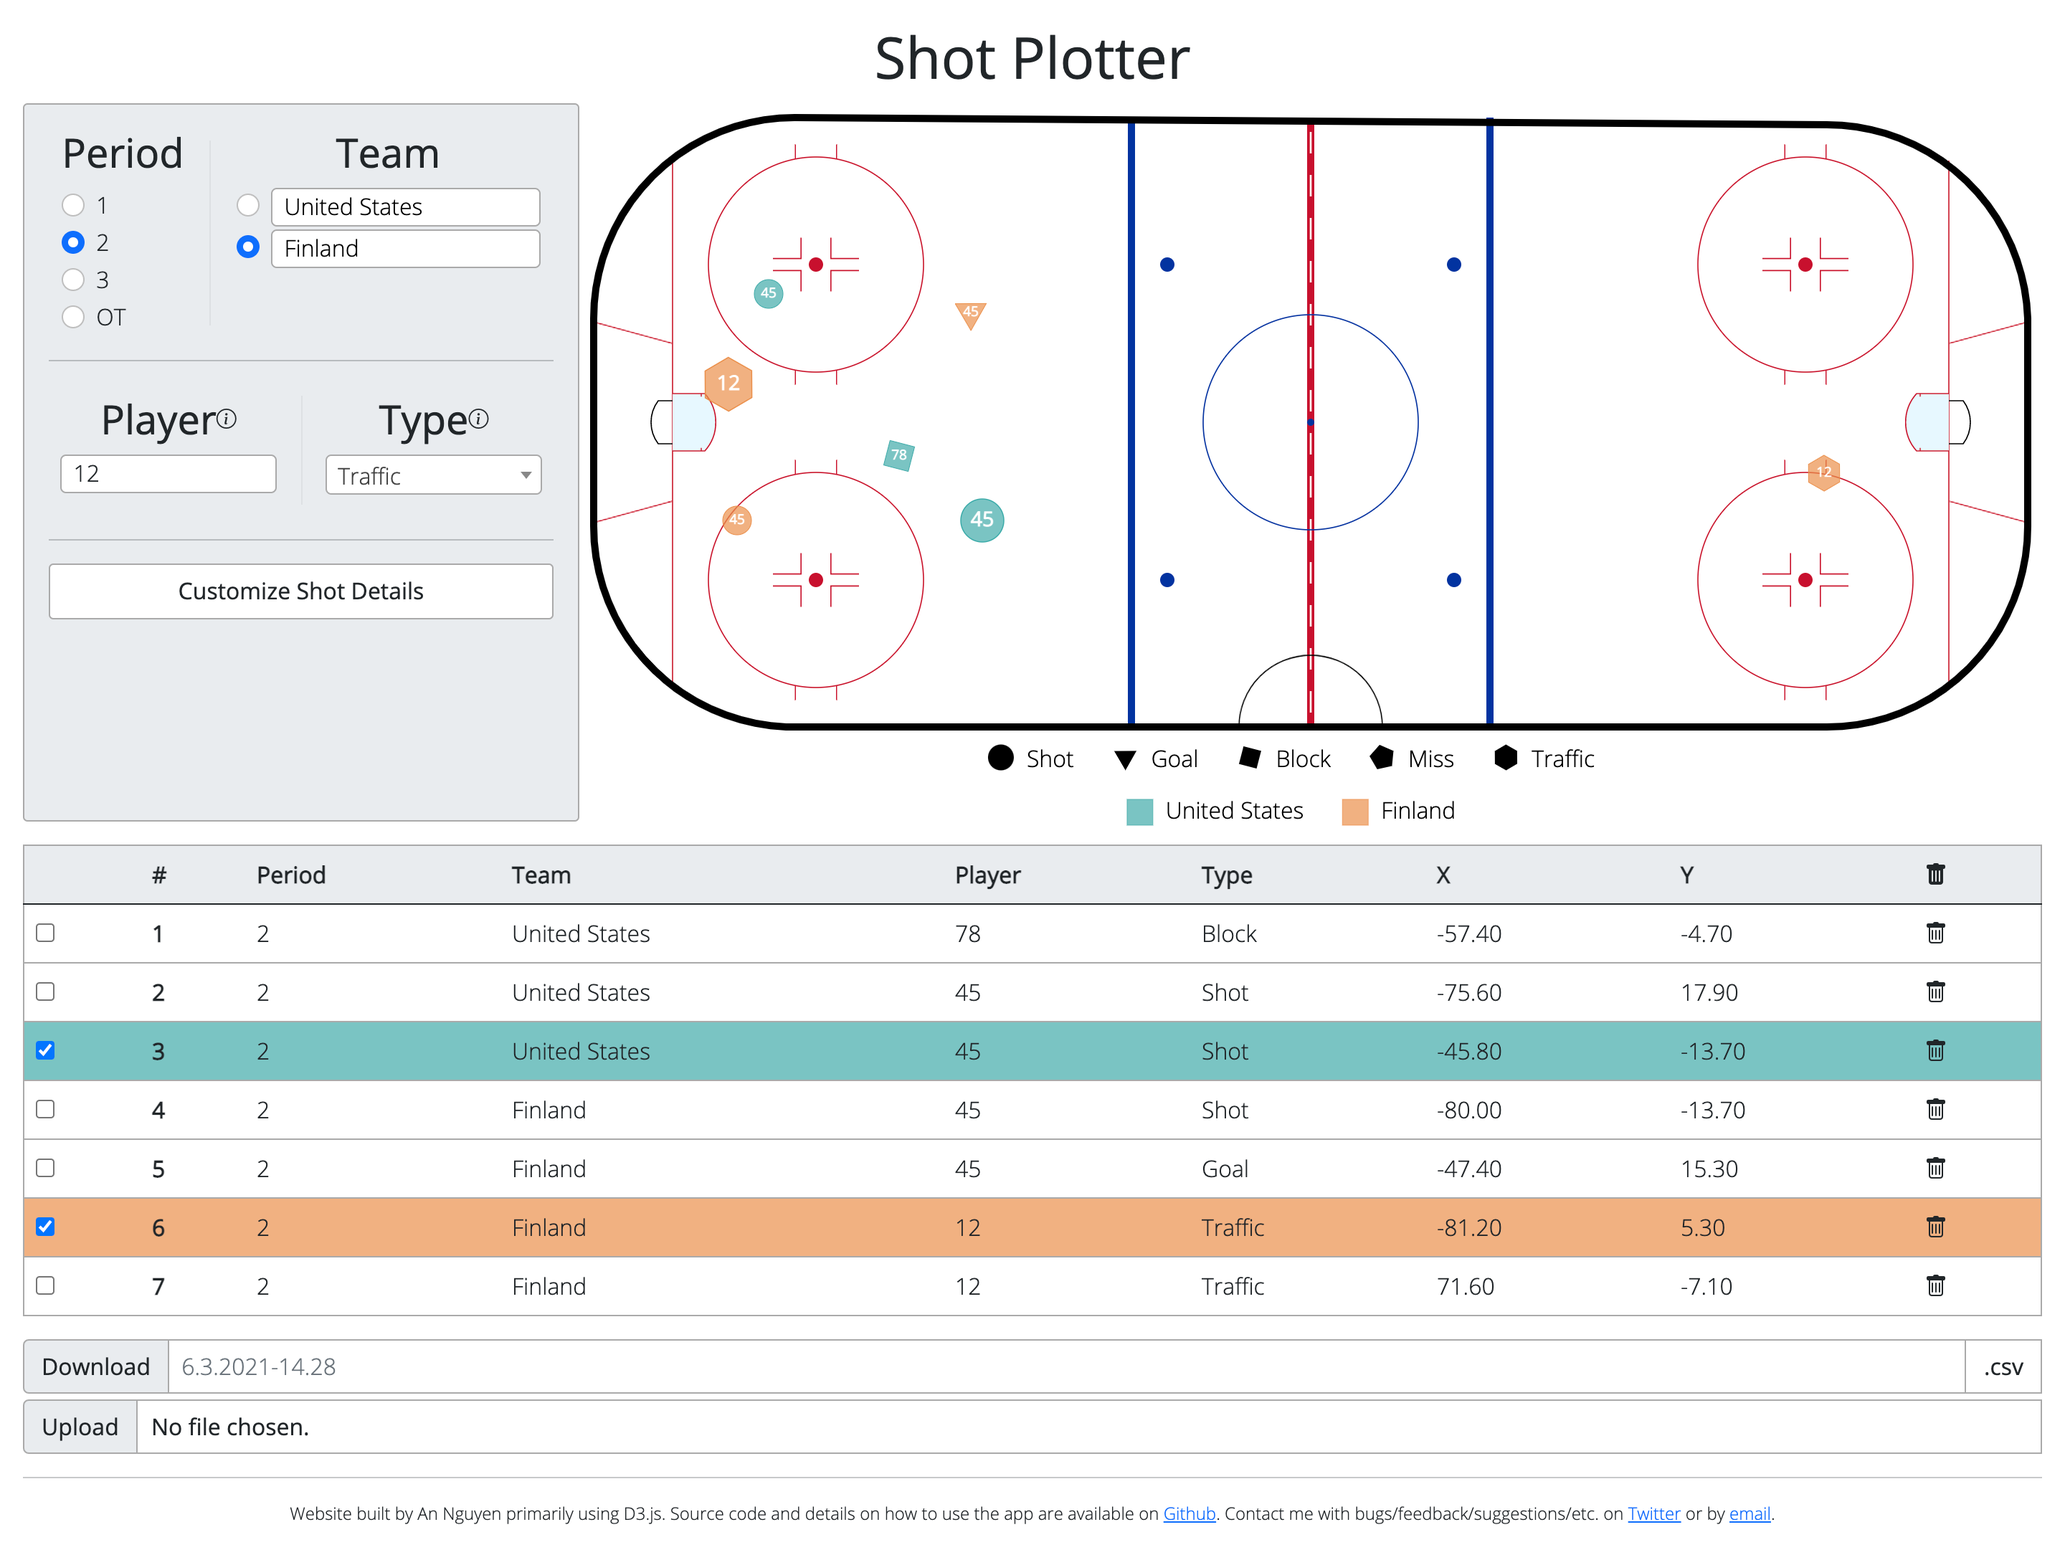
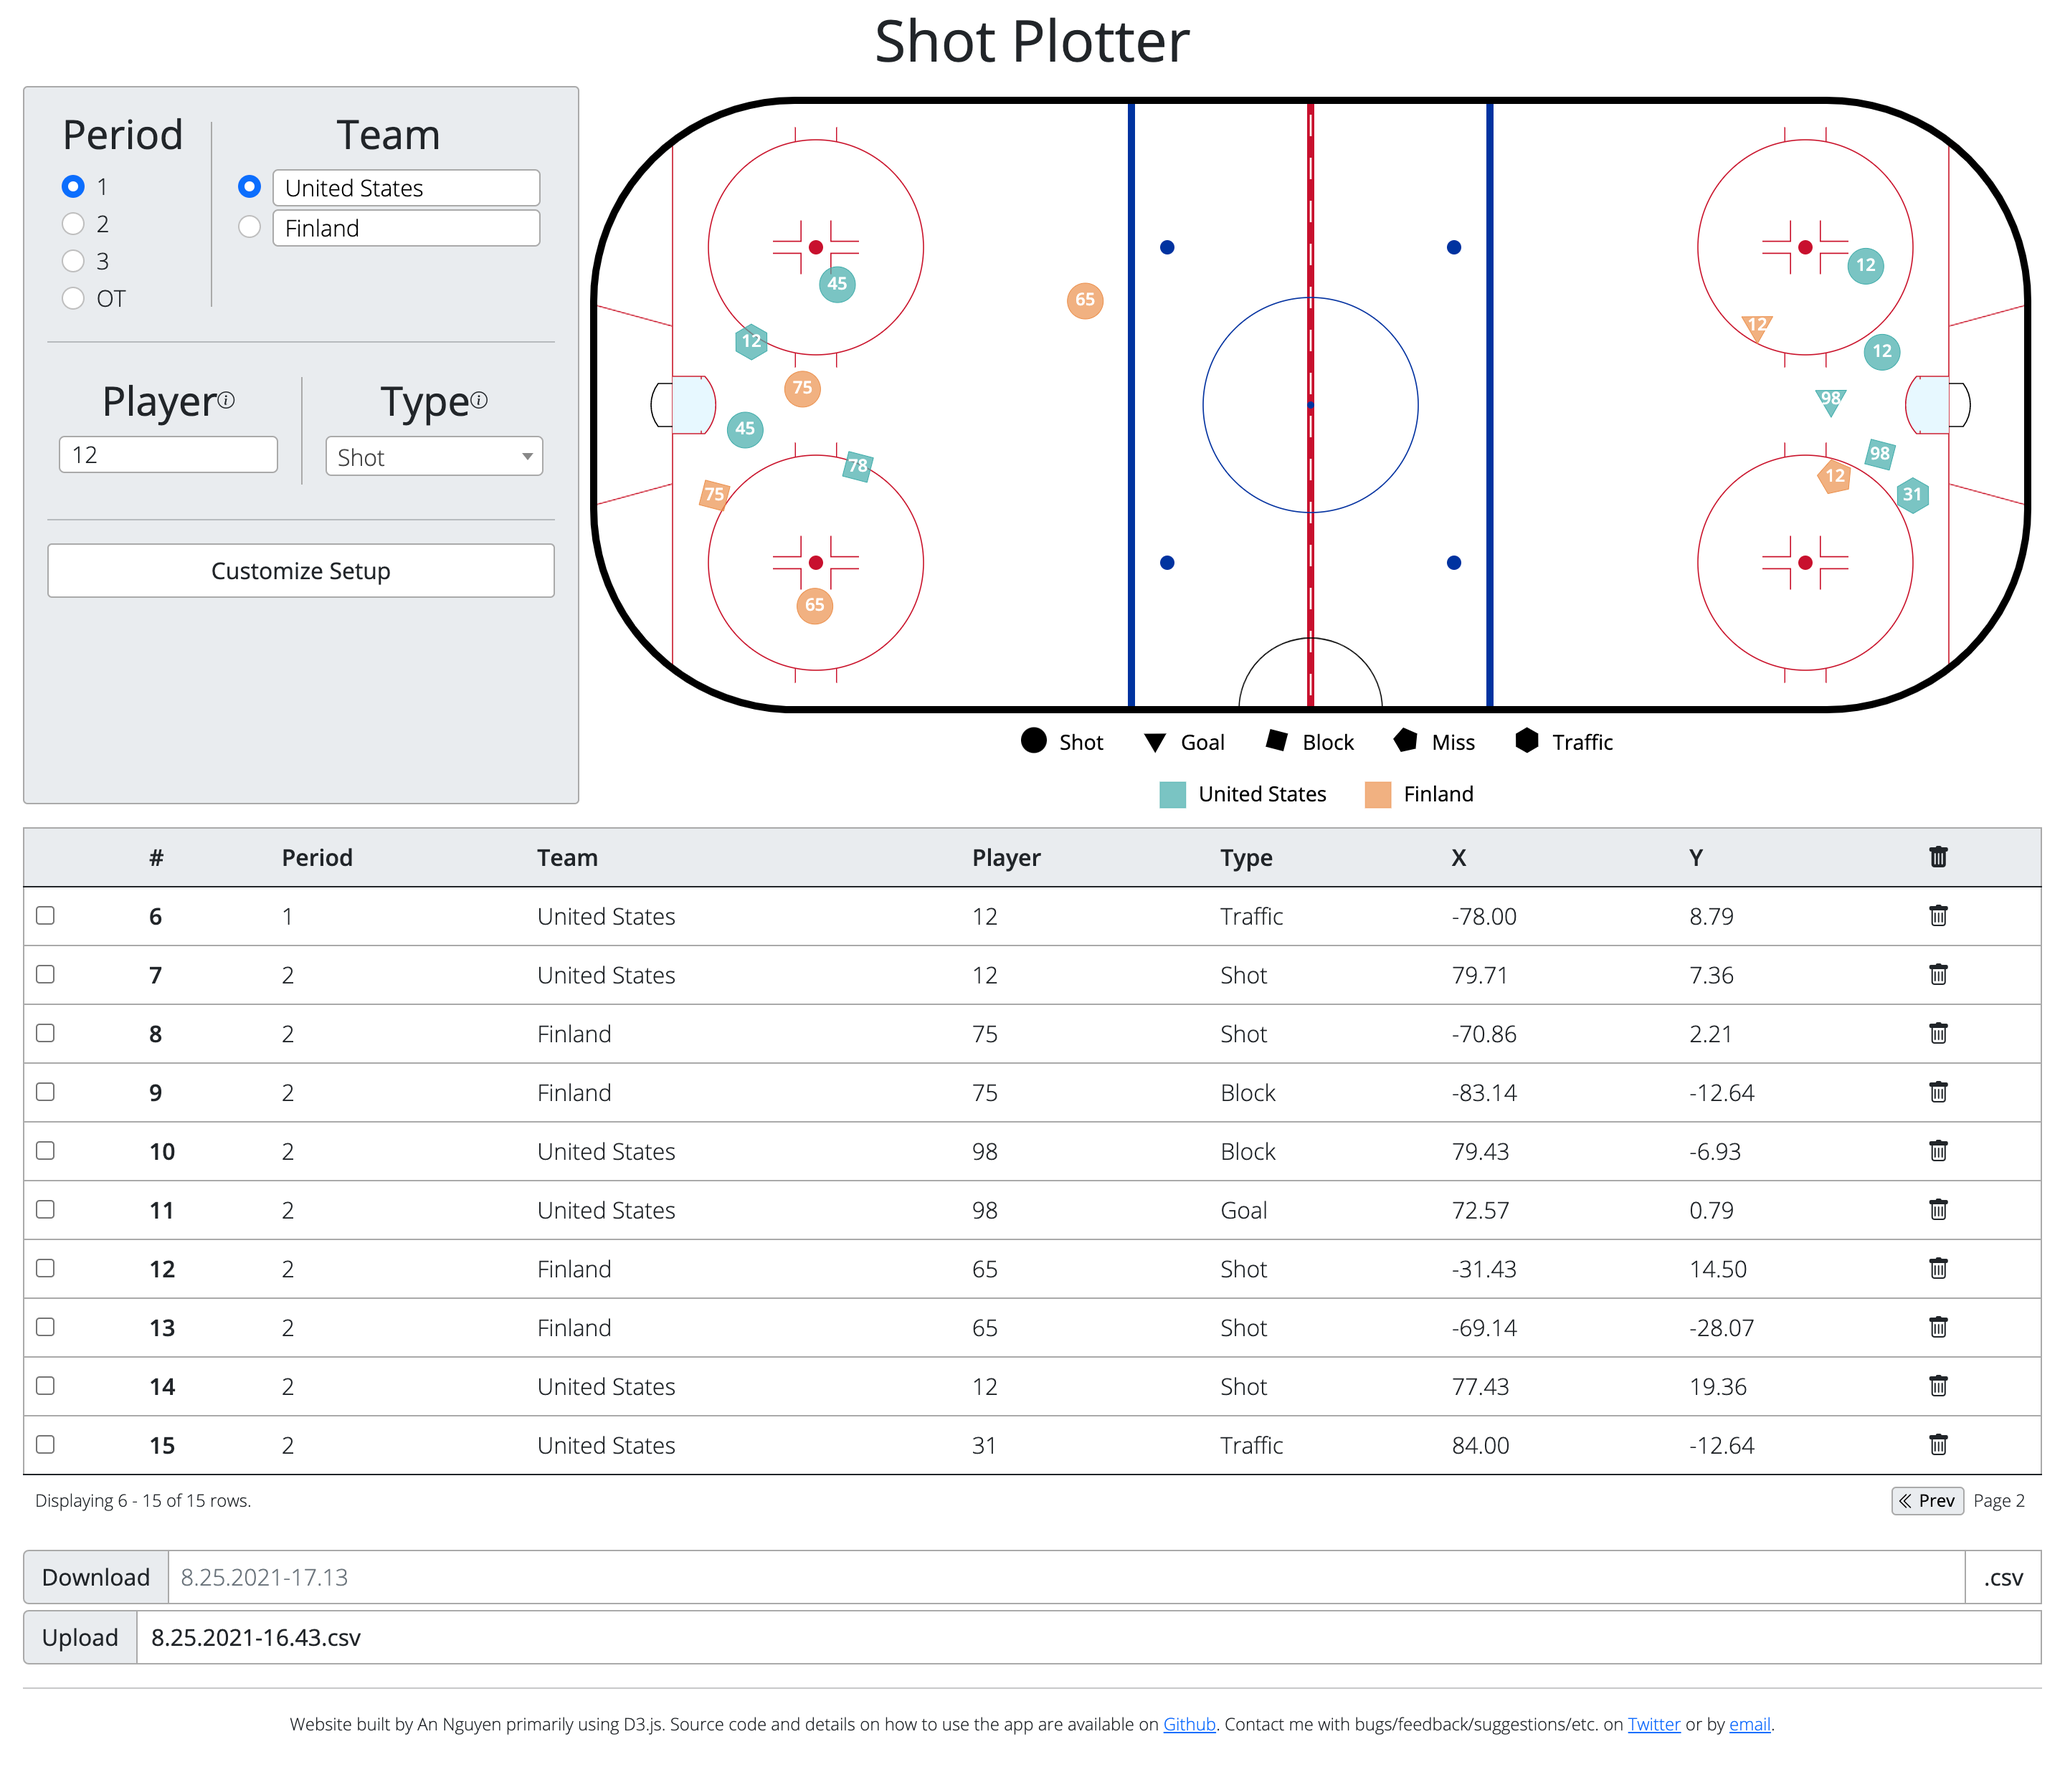
:memo: update screenshot; add info about table to README

diff --git a/index.html b/index.html
@@ -81,7 +81,7 @@
     </head>
     <body>
         <div class="alert alert-info" role="alert">
-            <b>MM/DD:</b> The table now has pages! To learn more or change how
+            <b>08/28:</b> The table now has pages! To learn more or change how
             many rows are on each page, click on the
             <u>Customize Setup</u> button.
         </div>

diff --git a/README.md b/README.md
@@ -6,7 +6,7 @@ A [web application](https://shot-plotter.netlify.app/) for plotting hockey shots
 
 The web application is primarily built using D3.js.
 
-##### 07/02/2021: You can now plot 2-coordinate shots! Enable 2-coordinate shots in the detail customization section, and then either hold Shift and click on the rink or switch between 1- and 2-coordinate mode using the switch above the rink.
+##### 08/28/2021: The table now has pages! By default, the last page always see the last 10 recorded shots, and one can switch between pages to see the other shots. The number of shots per page can be customized using the "Customize Setup" button; the explanation for the custom setup interface has also been cleaned up.
 
 ### How to Use and Additional Information
 
@@ -24,9 +24,11 @@ The type of shot can be specified. There are four default options: shot, goal, b
 
 Details logged for each shot can be customized by clicking on the _Customize Details_ button at the bottom of the details panel. Details can only be customized when there are no shots recorded.
 
-##### Customizing Details
+##### Customizing Setup
 
-Clicking the _Customize Details_ button will bring up a modal with a list of the current details. Drag-and-drop detail names to reorder them. Click on the eye icon to toggle whether it is visible. Click on the trash can icon to delete details. For created details, click on the pencil-in-a-square icon to edit those details. Reordering details changes their position in both the details panel and the table. The _X_ and _Y_ details cannot be hidden or deleted.
+Clicking the _Customize Setup_ button will bring up a modal with a list of the current details. Drag-and-drop detail names to reorder them. Click on the eye icon to toggle whether it is visible. Click on the trash can icon to delete details. For created details, click on the pencil-in-a-square icon to edit those details. Reordering details changes their position in both the details panel and the table. The _X_ and _Y_ details cannot be hidden or deleted.
+
+The default number of shots per page can be modified by changing the number before the text _Rows Per Table Page_. The default number is 10; the number must be an integer between 1 and 999 (inclusive).
 
 Using the _Enable 2-Coordinate Shots_ toggle, the ability to have 2-coordinate shots can be enabled. When enabled, _X2_ and _Y2_ details are added to the list of details. Like the _X_ and _Y_ details, the _X2_ and _Y2_ details cannot be hidden or deleted.
 
@@ -59,6 +61,8 @@ The rink size is not pinned to the window size. This allows you to zoom in and p
 #### Table
 
 The table logs the information for each shot, as well as the row number of the shot in the table. Shots can be highlighted by clicking on the check box for the appropriate row. This will highlight the row in the matching team color, and both enlarge the dot on the rink and move it to the front if it was previously covered by other dots. Multiple shots can be highlighted at once. Shots can be deleted by clicking on the trash can in the appropriate row. All shots can be deleted by clicking on the trash can in the header of the table; a prompt will confirm this choice.
+
+The table, by default, shows the last page, which has the last 10 shots recorded. Pages can be navigated using the _Prev_(ious) and _Next_ buttons at the lower-right of the table. The currently shown shots and the total number of shots recorded can be seen in the bottom-left of the table.
 
 #### Download/Upload Table
 
